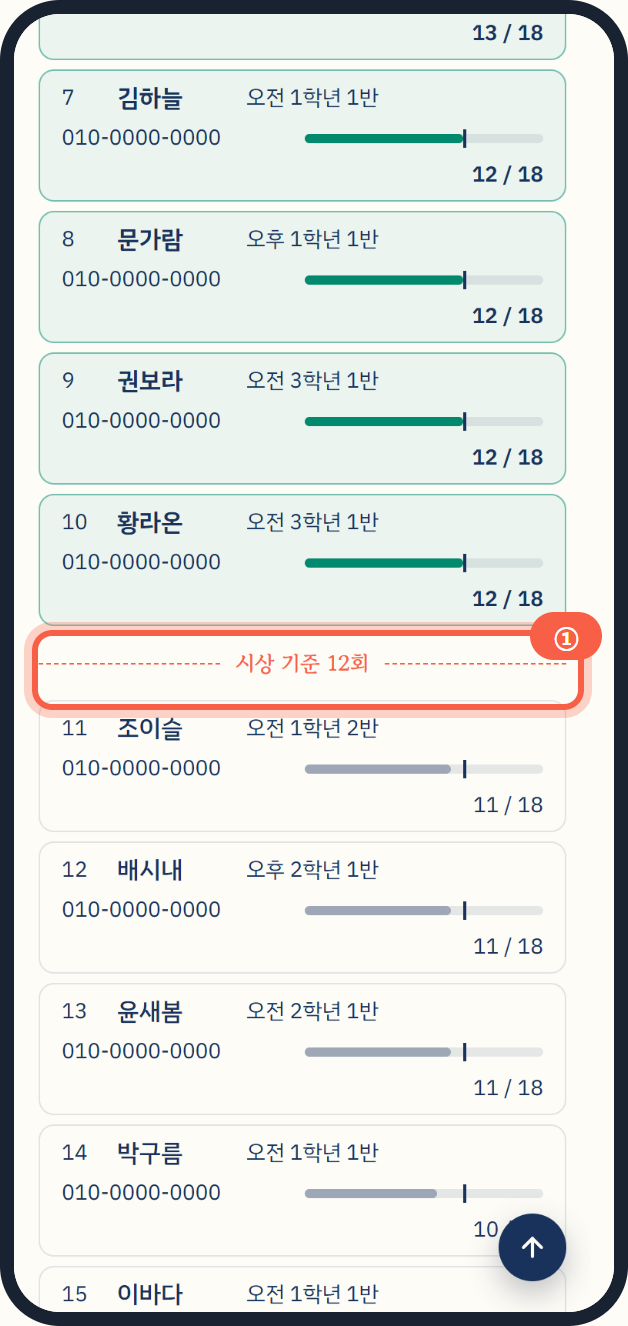
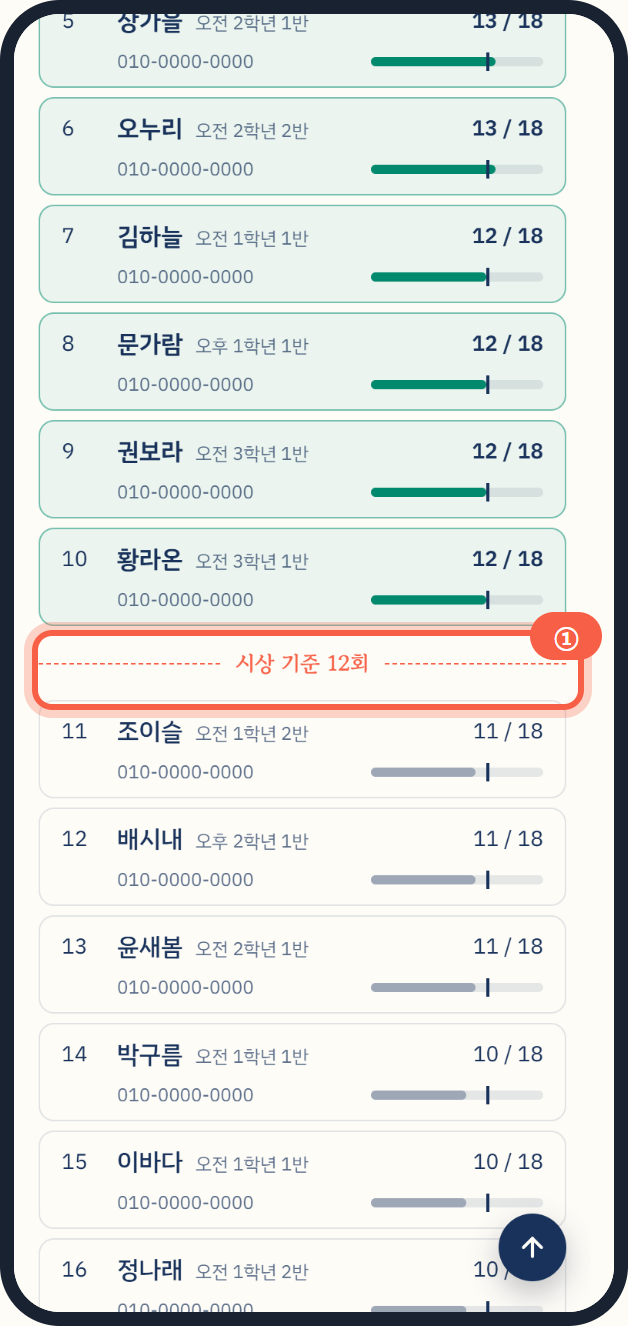
feat: 말씀노트 시상 화면 다듬기 — 롤링 점수판, 모바일 두 줄 행, 더 보기, 복사 표시 - 점수판 숫자를 RollingNumber로 바꾸고 불러오는 동안 0 대신 스켈레톤 표시 - 세션 탭 전환 시 스켈레톤 대신 목록 rise-in 효과 (동작 줄이기 설정이면 효과 없음) - 모바일 목록 행을 두 줄 격자로 고정, 연락처는 번호마다 끊기지 않게, 막대 폭 고정으로 12회 표시선 정렬 - 기준선 아래는 20명씩 더 보기, 기간·탭을 바꾸면 처음으로 - 복사 성공 시 체크 아이콘과 문구를 2초 표시하고 화면 읽기 프로그램에도 

diff --git a/src/components/notes/NotesSummaryList.tsx b/src/components/notes/NotesSummaryList.tsx
@@ -1,15 +1,20 @@
 "use client";
 // 말씀노트 시상 목록 — 횟수순 카드 행과 12회 기준선. 인증 뒤에만 마운트되므로 데이터 훅도 그때 처음 돈다
 
-import { useState } from "react";
+import { useEffect, useState } from "react";
+import { Check } from "lucide-react";
+import { RollingNumber } from "@/components/common/RollingNumber";
 import { Skeleton } from "@/components/common/Skeleton";
 import { useNotesSummary } from "@/hooks/useNotesSummary";
 import { getTodayInSeoul, toInputDateValue } from "@/lib/date";
 import { periodOfDate, periodsOfYear } from "@/lib/notes-period";
-import { formatPhoneDisplay } from "@/lib/phone";
+import { formatPhoneDisplay, splitPhones } from "@/lib/phone";
 import type { NotesSummaryStudent } from "@/api/notes";
 
 const AWARD_COUNT = 12;
+// 기준선 아래는 이만큼씩 그린다 — 화면의 목적은 기준선 위(시상 대상) 확인·복사라 아래는 필요할 때만 펼친다
+const PAGE_SIZE = 20;
+const COPIED_MS = 2000;
 const SESSIONS = ["전체", "오전", "오후"] as const;
 type SessionTab = (typeof SESSIONS)[number];
 
@@ -19,14 +24,19 @@ function toCopyLine(s: NotesSummaryStudent): string {
   return [s.session, s.grade, s.class, s.name, phone, s.count].join("\t");
 }
 
-function Score({ label, value, unit }: { label: string; value: number; unit: string }) {
+// 메인 점수판(SummaryBar)과 같은 방식 — 숫자는 굴러가고, 단위는 suffix가 아니라 옆 span(숫자 크기로 그려져 좁은 칸에서 넘친다)
+function Score({ label, value, unit, loading }: { label: string; value: number; unit: string; loading: boolean }) {
   return (
     <div className="flex flex-col items-center gap-0.5 border-paper/15 px-2 py-3.5 not-first:border-l">
       <span className="font-display text-sm tracking-[0.15em] opacity-70">{label}</span>
-      <span className="font-display text-[26px] font-bold">
-        {value}
-        <span className="text-sm opacity-70">{unit}</span>
-      </span>
+      {loading ? (
+        <Skeleton className="my-1.5 h-7 w-12 bg-paper/20" />
+      ) : (
+        <span className="flex items-baseline gap-0.5">
+          <RollingNumber value={value} className="font-display text-[26px] font-bold tabular-nums" />
+          <span className="font-display text-sm font-semibold opacity-70">{unit}</span>
+        </span>
+      )}
     </div>
   );
 }
@@ -42,35 +52,47 @@ function SummaryRow({
   sundays: number;
   award: boolean;
 }) {
+  // 모바일은 두 줄 격자(1줄 순번·이름·반·횟수 / 2줄 연락처·막대), sm 이상은 한 줄 flex.
+  // 묶음 div는 sm에서 `contents`라 안의 칸이 바깥 flex의 칸이 된다
   return (
     <li
-      className={`flex flex-wrap items-center gap-x-3 gap-y-1 rounded-[10px] px-3.5 py-1.5 ${
+      className={`grid grid-cols-[1.5rem_minmax(0,1fr)_auto] items-center gap-x-3 gap-y-1.5 rounded-[10px] px-3.5 py-2 sm:flex sm:flex-wrap sm:gap-y-1 sm:py-1.5 ${
         award ? "min-h-12 border-[1.5px] border-teal/50 bg-teal/7" : "min-h-11 border border-ink/12"
       }`}
     >
-      <span className="w-6 text-sm tabular-nums">{rank}</span>
-      <span className={`min-w-[72px] ${award ? "font-semibold" : "font-medium"}`}>
-        {student.name}
-      </span>
-      <span className="w-[120px] text-sm">
-        {student.session} {student.grade}학년 {student.class}반
-      </span>
-      <span className="flex-[1_1_130px] text-sm tabular-nums">
-        {formatPhoneDisplay(student.phone)}
-      </span>
-      <span className="relative h-1.5 flex-[1_1_140px] rounded-full bg-ink/10">
-        <span
-          className={`block h-full rounded-full ${award ? "bg-teal" : "bg-ink/35"}`}
-          style={{ width: `${Math.min(100, (student.count / sundays) * 100)}%` }}
-        />
-        <span
-          aria-hidden="true"
-          className="absolute -top-[3px] h-3 w-0.5 bg-ink"
-          style={{ left: `${(AWARD_COUNT / sundays) * 100}%` }}
-        />
-      </span>
+      <span className="text-sm tabular-nums sm:w-6">{rank}</span>
+      <div className="flex min-w-0 items-baseline gap-2 sm:contents">
+        <span className={`truncate sm:min-w-[72px] ${award ? "font-semibold" : "font-medium"}`}>
+          {student.name}
+        </span>
+        <span className="whitespace-nowrap text-xs text-ink/70 sm:w-[120px] sm:text-sm sm:text-ink">
+          {student.session} {student.grade}학년 {student.class}반
+        </span>
+      </div>
+      <div className="col-span-2 col-start-2 row-start-2 flex items-center gap-3 sm:contents">
+        {/* 번호 안의 하이픈에서 줄이 꺾이지 않게 번호마다 한 덩어리로 */}
+        <span className="flex min-w-0 flex-1 flex-wrap gap-x-2 text-xs tabular-nums text-ink/70 sm:flex-[1_1_130px] sm:text-sm sm:text-ink">
+          {splitPhones(student.phone).map((phone, i) => (
+            <span key={i} className="whitespace-nowrap">
+              {formatPhoneDisplay(phone)}
+            </span>
+          ))}
+        </span>
+        {/* 모바일은 막대 폭을 고정 — 연락처 길이에 따라 12회 표시선 위치가 행마다 달라지지 않게 */}
+        <span className="relative ml-auto h-1.5 w-28 flex-none rounded-full bg-ink/10 sm:ml-0 sm:w-auto sm:flex-[1_1_140px]">
+          <span
+            className={`block h-full rounded-full ${award ? "bg-teal" : "bg-ink/35"}`}
+            style={{ width: `${Math.min(100, (student.count / sundays) * 100)}%` }}
+          />
+          <span
+            aria-hidden="true"
+            className="absolute -top-[3px] h-3 w-0.5 bg-ink"
+            style={{ left: `${(AWARD_COUNT / sundays) * 100}%` }}
+          />
+        </span>
+      </div>
       <span
-        className={`ml-auto w-[60px] text-right text-sm tabular-nums ${award ? "font-semibold" : ""}`}
+        className={`col-start-3 row-start-1 whitespace-nowrap text-right text-sm tabular-nums sm:ml-auto sm:w-[60px] ${award ? "font-semibold" : ""}`}
       >
         {student.count} / {sundays}
       </span>
@@ -82,24 +104,38 @@ export function NotesSummaryList() {
   const [today] = useState(() => periodOfDate(toInputDateValue(getTodayInSeoul())));
   const [periodKey, setPeriodKey] = useState(today.key);
   const [session, setSession] = useState<SessionTab>("전체");
-  const [copy, setCopy] = useState<{ key: string; ok: boolean } | null>(null);
+  const [copied, setCopied] = useState<{ ok: boolean } | null>(null);
+  const [shownCount, setShownCount] = useState(PAGE_SIZE);
 
   const { data, isLoading, isError } = useNotesSummary(periodKey);
 
   const rows = (data?.students ?? []).filter((s) => session === "전체" || s.session === session);
   const winners = rows.filter((s) => s.count >= AWARD_COUNT);
   const others = rows.filter((s) => s.count < AWARD_COUNT);
+  const shownOthers = others.slice(0, shownCount);
+  const hiddenCount = others.length - shownOthers.length;
 
-  // 기간·세션이 바뀌면 복사 결과 문구가 저절로 사라지도록 그때의 조건을 함께 기억한다
-  const copyKey = `${periodKey}|${session}`;
-  const copied = copy?.key === copyKey ? copy : null;
+  // 기간·세션을 바꾸면 복사 결과 문구와 더 보기 개수를 처음으로 — 다른 명단의 결과가 남지 않게
+  function changeView(next: { period?: string; session?: SessionTab }) {
+    if (next.period) setPeriodKey(next.period);
+    if (next.session) setSession(next.session);
+    setCopied(null);
+    setShownCount(PAGE_SIZE);
+  }
+
+  // 성공 표시는 잠깐만 — 실패 문구는 다시 누를 때까지 남긴다
+  useEffect(() => {
+    if (!copied?.ok) return;
+    const timer = setTimeout(() => setCopied(null), COPIED_MS);
+    return () => clearTimeout(timer);
+  }, [copied]);
 
   async function copyWinners() {
     try {
       await navigator.clipboard.writeText(winners.map(toCopyLine).join("\n"));
-      setCopy({ key: copyKey, ok: true });
+      setCopied({ ok: true });
     } catch {
-      setCopy({ key: copyKey, ok: false });
+      setCopied({ ok: false });
     }
   }
 
@@ -109,7 +145,7 @@ export function NotesSummaryList() {
         <span className="sr-only">기간</span>
         <select
           value={periodKey}
-          onChange={(e) => setPeriodKey(e.target.value)}
+          onChange={(e) => changeView({ period: e.target.value })}
           className="min-h-10 rounded-full border-[1.5px] border-ink/25 bg-paper px-3 font-medium text-ink"
         >
           {periodsOfYear(Number(today.key.slice(0, 4))).map((p) => (
@@ -121,9 +157,9 @@ export function NotesSummaryList() {
       </label>
 
       <div className="grid grid-cols-3 overflow-hidden rounded-2xl bg-ink text-paper">
-        <Score label="시상 대상" value={winners.length} unit="명" />
-        <Score label="전체" value={rows.length} unit="명" />
-        <Score label="일요일" value={data?.sundays ?? 0} unit="회" />
+        <Score label="시상 대상" value={winners.length} unit="명" loading={isLoading} />
+        <Score label="전체" value={rows.length} unit="명" loading={isLoading} />
+        <Score label="일요일" value={data?.sundays ?? 0} unit="회" loading={isLoading} />
       </div>
 
       <div className="flex flex-wrap items-center gap-2">
@@ -132,7 +168,7 @@ export function NotesSummaryList() {
             key={label}
             type="button"
             aria-pressed={label === session}
-            onClick={() => setSession(label)}
+            onClick={() => changeView({ session: label })}
             className={`min-h-10 rounded-full border-[1.5px] px-4 text-sm ${
               label === session
                 ? "border-ink bg-ink text-paper"
@@ -146,10 +182,15 @@ export function NotesSummaryList() {
           type="button"
           onClick={copyWinners}
           disabled={winners.length === 0}
-          className="ml-auto min-h-10 rounded-full bg-teal px-4.5 font-semibold text-paper disabled:opacity-40"
+          className="ml-auto inline-flex min-h-10 min-w-36 items-center justify-center gap-1.5 rounded-full bg-teal px-4.5 font-semibold text-paper disabled:opacity-40"
         >
+          {copied?.ok && <Check aria-hidden="true" className="size-4" strokeWidth={3} />}
           {copied ? (copied.ok ? "복사했어요" : "복사하지 못했어요") : "시상 명단 복사"}
         </button>
+        {/* 버튼 글자가 바뀐 것을 화면 읽기 프로그램에도 알린다 */}
+        <span role="status" className="sr-only">
+          {copied ? (copied.ok ? `시상 명단 ${winners.length}명을 복사했어요` : "복사하지 못했어요") : ""}
+        </span>
       </div>
 
       {isLoading ? (
@@ -163,7 +204,11 @@ export function NotesSummaryList() {
           데이터를 불러오지 못했습니다. 새로고침 후 다시 시도해주세요.
         </p>
       ) : (
-        <div className="flex flex-col gap-1.5">
+        // 탭은 받은 데이터를 거르기만 해 즉시 바뀐다 — 스켈레톤 대신 목록이 살짝 올라오며 바뀐 것을 알린다
+        <div
+          key={`${periodKey}|${session}`}
+          className="flex flex-col gap-1.5 animate-[rise-in_0.35s_ease-out_both] motion-reduce:animate-none"
+        >
           <ol className="flex flex-col gap-1.5">
             {winners.map((student, i) => (
               <SummaryRow
@@ -181,7 +226,7 @@ export function NotesSummaryList() {
             <span className="flex-1 border-t-[1.5px] border-dashed border-stamp" />
           </div>
           <ol start={winners.length + 1} className="flex flex-col gap-1.5">
-            {others.map((student, i) => (
+            {shownOthers.map((student, i) => (
               <SummaryRow
                 key={student.id}
                 student={student}
@@ -191,6 +236,15 @@ export function NotesSummaryList() {
               />
             ))}
           </ol>
+          {hiddenCount > 0 && (
+            <button
+              type="button"
+              onClick={() => setShownCount((n) => n + PAGE_SIZE)}
+              className="mt-1.5 min-h-11 rounded-[10px] border-[1.5px] border-dashed border-ink/25 text-sm font-medium text-ink hover:bg-ink/5"
+            >
+              {Math.min(PAGE_SIZE, hiddenCount)}명 더 보기 <span className="text-ink/60">(남은 {hiddenCount}명)</span>
+            </button>
+          )}
         </div>
       )}
     </div>

diff --git a/src/app/guide/page.tsx b/src/app/guide/page.tsx
@@ -663,7 +663,7 @@ function GuideContent() {
                   alt="시상 기준 12회 구분선에 빨간 네모가 있다. 선 위는 12회 이상 학생이 초록색으로, 선 아래는 흰색으로 보인다."
                   title={<><em>시상 기준 12회</em> 선 위가 수상자예요</>}
                 >
-                  <p>① 많이 쓴 순서로 나오고, 선 아래는 아직 12회가 안 된 학생이에요.</p>
+                  <p>① 많이 쓴 순서로 나오고, 선 아래는 아직 12회가 안 된 학생이에요. 선 아래는 20명씩 보여 주고, 맨 아래 <b>더 보기</b>를 누르면 이어서 나와요.</p>
                   <p className="hint">오전·오후 버튼을 누르면 그 예배 학생만 보고 복사할 수 있어요.</p>
                 </GuideStep>
               </GuideSteps>

diff --git a/CLAUDE.md b/CLAUDE.md
@@ -227,7 +227,7 @@ interface AttendanceRecord {
 | `/teachers` | `app/teachers/page.tsx` | 교사 현황 — 관리자(admin) 전용 교사 명단 데이터 그리드 (교적부의 교사판: 세션/팀 탭 필터·이름 검색·정렬·sticky, 컬럼 번호·이름·팀·연락처·생년월일·주소·출석률(1년기준)·비고). `/members`에서 "교사 현황" 버튼으로 진입 |
 | `/guide` | `app/guide/page.tsx` | 사용 안내 — 교사용(session) 게이트. 출석 체크(학생)·출석 확인(교사)·출석현황·생일자·말씀노트 체크·학생 관리(등록·고치기·지난 출석·지우기·교사 현황·말씀노트 시상 명단)·자주 묻는 것을 휴대폰 캡처와 함께 안내 (교적부는 제외). 단계가 42개라 **절을 모두 접은 채 시작**하고, 맨 위 대상별 카드(학생용·교사용·총무팀용)·상단 고정 칩 줄(PC는 왼쪽 목차)·주소 앵커로 필요한 절만 펼친다. 메인 화면의 PC 헤더 `사용 안내` 버튼(768px 미만은 `?` 아이콘만)·모바일 메뉴 맨 아래 항목으로 진입. 캡처는 저장소 루트 `guide/`에서 가짜 데이터로 만들어 `public/guide/`에 복사한 완성본만 사용 |
 | `/notes/c/[token]` | `app/notes/c/[token]/page.tsx` | 말씀노트 체크 — 인증 없음(반별 비밀 토큰 링크, QR로 진입), `noindex`. 상단 고정 영역(반·진행 막대·날짜 칩) + 세로 명단. 기본 날짜는 최근 일요일이고 **지금 기수**의 지난 일요일을 가로 스크롤 칩으로 고른다(새 기수 시작 후 21일 동안은 지난 기수 날짜도 표시, 서버 검증과 같은 함수). 그날 결석한 학생은 흐리게 `결석` 표시(체크는 가능). 카드 토글은 Optimistic + 롤백, 30초 polling |
-| `/notes/summary` | `app/notes/summary/page.tsx` | 말씀노트 시상 — 관리자(admin) 게이트. `/members`의 `말씀노트` 버튼으로 진입. 기간 드롭다운(올해 3개)·점수판·세션 탭·횟수순 카드 행 + `시상 기준 12회` 구분선. `시상 명단 복사`는 세션 탭 안의 12회 이상만 탭 구분 텍스트로 복사. 표·컬럼 정렬 없음(순서 고정) |
+| `/notes/summary` | `app/notes/summary/page.tsx` | 말씀노트 시상 — 관리자(admin) 게이트. `/members`의 `말씀노트` 버튼으로 진입. 기간 드롭다운(올해 3개)·점수판·세션 탭·횟수순 카드 행 + `시상 기준 12회` 구분선. `시상 명단 복사`는 세션 탭 안의 12회 이상만 탭 구분 텍스트로 복사(성공 표시 2초). 기준선 아래는 20명씩 `더 보기`(기간·탭을 바꾸면 처음으로). 점수판은 RollingNumber + 로딩 스켈레톤, 세션 탭은 요청 없이 거르기만 해 스켈레톤 대신 목록 rise-in. 모바일 행은 두 줄 격자(sm 이상 한 줄). 표·컬럼 정렬 없음(순서 고정) |
 
 ### 관리자 모드 진입 플로우
 1. 메인 화면에 "학생 관리" 버튼 존재
@@ -373,7 +373,7 @@ src/
 │   ├── notes/                          # 말씀노트 전용
 │   │   ├── ClassNotesScreen.tsx        ✅ 체크 화면 본체 — 상단 고정 영역 + 명단. 잘못된 토큰·날짜 없음·조회 실패·날짜 거절 안내 포함. 날짜 칩은 탭 복귀와 1분 주기로 다시 계산(자정에 유예가 끝나도 반영)하고, 선택 날짜가 바뀌면 그 칩을 칩 줄 가운데로 스크롤(칩 줄만 움직이는 `scrollTo` — `centerChip`, 처음 열 때는 움직이지 않음). 날짜 전환 중 스켈레톤은 직전 명단 인원만큼 그려 세로 위치를 지킨다
 │   │   ├── NoteCheckCard.tsx           ✅ 세로 명단 한 줄 토글 카드 (56px, 결석 흐림)
-│   │   └── NotesSummaryList.tsx        ✅ 시상 목록 — 기간·점수판·세션 탭·12회 구분선·복사. AWARD_COUNT 상수
+│   │   └── NotesSummaryList.tsx        ✅ 시상 목록 — 기간·점수판(롤링 숫자)·세션 탭·12회 구분선·기준선 아래 더 보기(PAGE_SIZE 20)·복사. AWARD_COUNT 상수
 │   ├── stats/
 │   │   └── YearlyStats.tsx             ✅ 1년 통계 플로팅 오버레이 (도넛 차트)
 │   ├── students/
